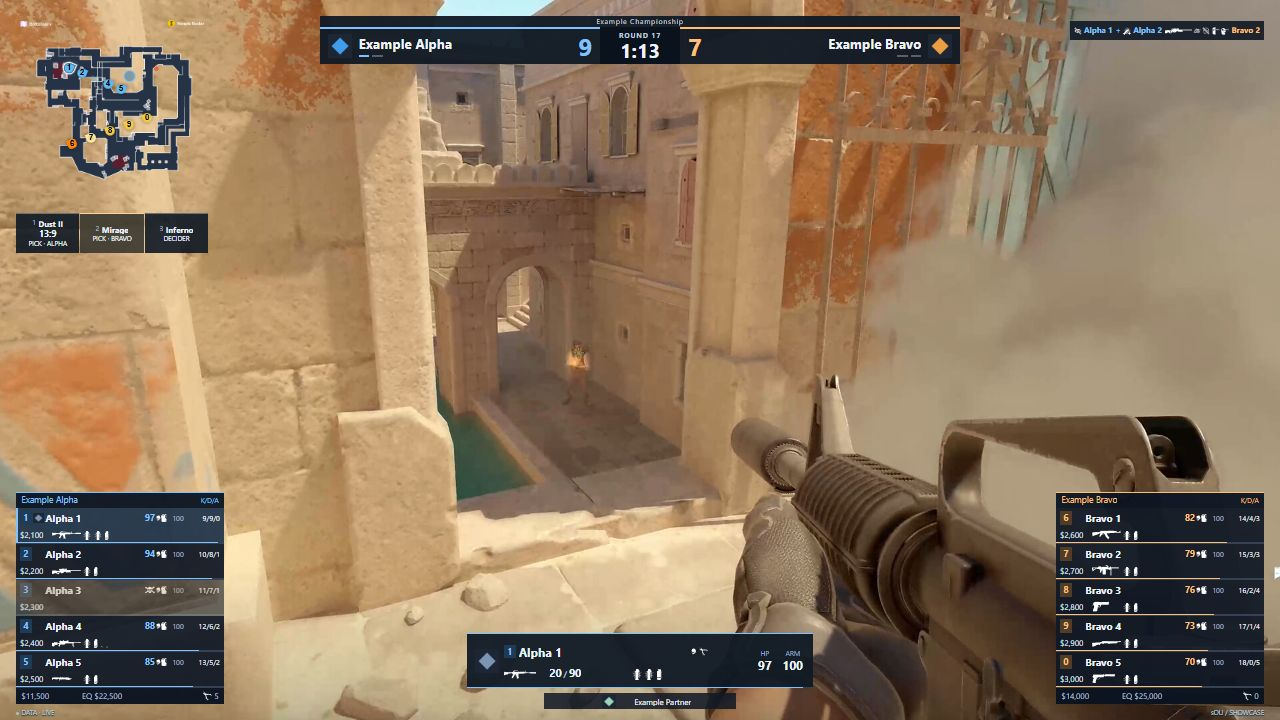
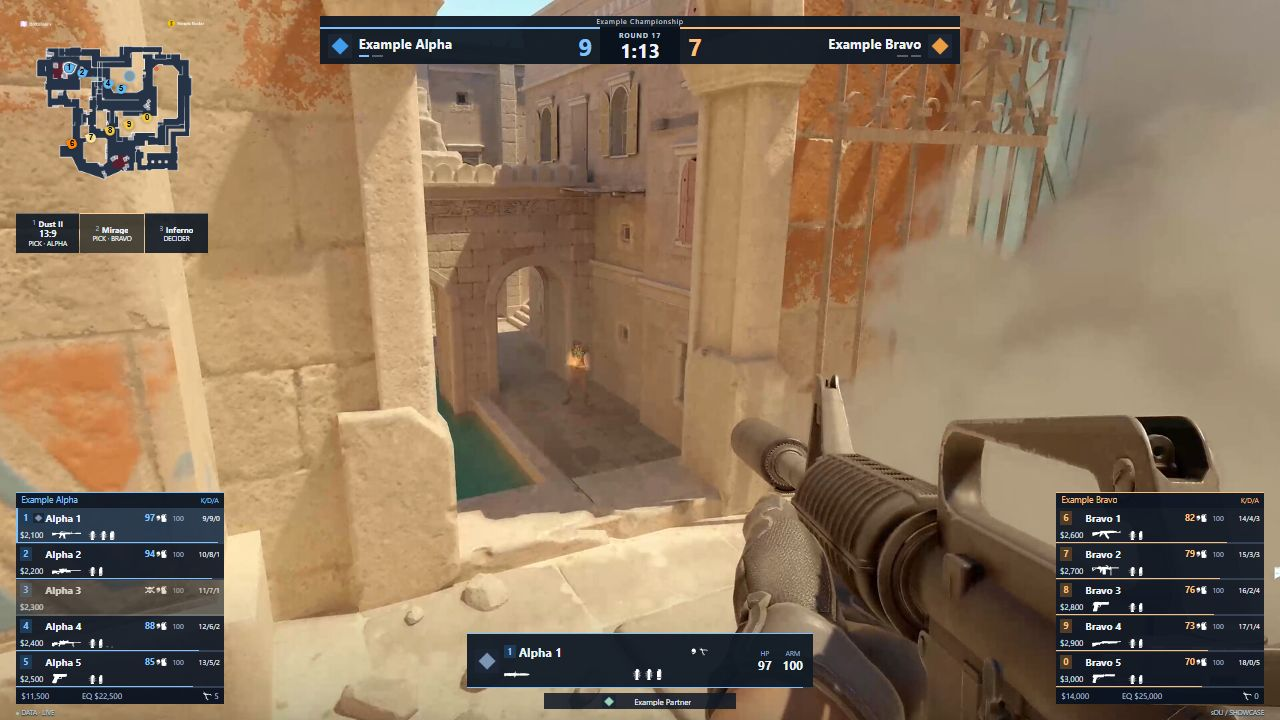
Show carried roster weapons and separate utility in 0.4.8

diff --git a/tests/render.test.js b/tests/render.test.js
@@ -166,11 +166,11 @@ for (const life of [{ health: 0 }, { health: -1 }, { health: 100, isAlive: false
     assert.doesNotMatch(html, /m4a1_silencer|M4A1-S|smokegrenade|weapons\/c4|Unknown weapon|Weapon unavailable|73|99/);
   }
 });
-test('alive unarmed and holstered-only players leave current weapon and ammo absent', () => {
+test('alive unarmed players leave roster empty and holstered weapons do not replace the observer held weapon', () => {
   const base = fixture('live').snapshot.game.players[0];
   for (const weapons of [[], [{ name: 'weapon_awp', type: 'sniperRifle', state: 'holstered' }]]) {
     const player = { ...base, health: 100, isAlive: true, weapons, activeWeapon: staleCurrentWeapon() };
-    for (const component of [PlayerRow, ObservedPlayer]) {
+    for (const component of weapons.length ? [ObservedPlayer] : [PlayerRow, ObservedPlayer]) {
       const html = renderPlayer(component, player);
       assert.doesNotMatch(html, /m4a1_silencer|M4A1-S|weapon-icon|weapons\/awp|Unknown weapon|Weapon unavailable|73|99/);
     }
@@ -181,10 +181,22 @@ test('alive unarmed and holstered-only players leave current weapon and ammo abs
 test('actually present unknown weapon keeps its fallback distinct from an absent weapon', () => {
   const base = fixture('live').snapshot.game.players[0];
   for (const state of ['active', 'reloading']) {
-    const player = { ...base, health: 100, isAlive: true, weapons: [{ slot: 'primary', name: '', kind: 'unknown', state, ammoClip: 73, ammoReserve: 99 }] };
+    const player = { ...base, health: 100, isAlive: true, weapons: [{ slot: 'primary', type: 'rifle', name: '', kind: 'unknown', state, ammoClip: 73, ammoReserve: 99 }] };
     for (const [component, props] of [[PlayerRow, {}], [ObservedPlayer, {}], [ObservedPlayer, { expanded: true }]]) assert.match(renderPlayer(component, player, props), /Unknown weapon/);
     assert.match(renderPlayer(ObservedPlayer, player), /73/);
   }
+});
+
+test('roster shows the carried primary while observer shows the held knife, then falls back after drops', () => {
+  const base = fixture('live').snapshot.game.players[0];
+  const knife = { name: 'weapon_knife', type: 'knife', state: 'active' };
+  const pistol = { name: 'weapon_glock', type: 'pistol', state: 'holstered' };
+  const primary = { name: 'weapon_awp', type: 'sniperRifle', state: 'holstered' };
+  const player = { ...base, health: 100, weapons: [knife, pistol, primary] };
+  assert.match(renderPlayer(PlayerRow, player), /weapons\/awp\.svg/);
+  assert.match(renderPlayer(ObservedPlayer, player), /weapons\/knife\.svg/);
+  assert.match(renderPlayer(PlayerRow, { ...player, weapons: [knife, pistol] }), /weapons\/glock\.svg/);
+  assert.match(renderPlayer(PlayerRow, { ...player, weapons: [knife] }), /weapons\/knife\.svg/);
 });
 test('missing weapon icon renders no unknown box while real named unknown equipment remains labeled', () => {
   assert.equal(renderToStaticMarkup(createElement(Icon, { weapon: null })), '');

diff --git a/tests/model.test.js b/tests/model.test.js
@@ -2,12 +2,24 @@ import test from 'node:test';
 import assert from 'node:assert/strict';
 import {
   EMPTY, activeWeapon, clock, localPreviewMode, money, observerSlot, panelSettings,
-  playerDead, roster, samePlayer, statistic, teamName, time, weaponName,
+  playerDead, roster, rosterWeapon, samePlayer, statistic, teamName, time, weaponName,
 } from '../src/model.js';
 const coreSettings = state => {
   const { caption, showRosters, showObservedPlayer } = panelSettings(state);
   return { caption, showRosters, showObservedPlayer };
 };
+
+test('roster priority uses inventory categories independently of held state and preserves absence', () => {
+  const knife = { type: 'knife', state: 'active' }, pistol = { type: 'pistol', state: 'holstered' }, grenade = { type: 'grenade', state: 'active' };
+  for (const type of ['rifle', 'sniperRifle', 'submachineGun', 'shotgun', 'machineGun']) {
+    const primary = { type, state: 'holstered' };
+    assert.equal(rosterWeapon({ health: null, weapons: [knife, grenade, pistol, primary] }), primary);
+    assert.equal(rosterWeapon({ health: 0, weapons: [primary] }), null);
+  }
+  assert.equal(rosterWeapon({ weapons: [knife, pistol] }), pistol);
+  assert.equal(rosterWeapon({ weapons: [grenade, knife] }), knife);
+  for (const weapons of [null, undefined, [], [grenade], [{ type: 'unknown', state: 'active' }]]) assert.equal(rosterWeapon({ weapons, activeWeapon: pistol }), null);
+});
 
 test('missing and invalid values remain unknown, zero remains meaningful', () => {
   for (const value of [null, undefined, NaN, Infinity, -1, '0']) {

diff --git a/src/ui/components/Players.jsx b/src/ui/components/Players.jsx
@@ -1,4 +1,4 @@
-import { activeWeapon, money, observerSlot, playerDead, roster, samePlayer, statistic, teamName } from '../../model.js';
+import { activeWeapon, money, observerSlot, playerDead, roster, rosterWeapon, samePlayer, statistic, teamName } from '../../model.js';
 import { compactUtility, economy, hasBomb, playerCoverage, playerName, profileFor, utilityCopies, weaponList } from '../../model/showcase.js';
 import { rawWeapon, weaponLabel } from '../../model/assets.js';
 import { LocalImage, Meter, NumberStat } from './Common.jsx';
@@ -22,7 +22,7 @@ export function PlayerBadges({ player, state, showHelmet = true }) {
     {player.burning > 0 && <Icon name="weapons/inferno" label={`Burning ${player.burning}`} base={base} />}</span>;
 }
 export function PlayerRow({ player, state }) {
-  const weapon = activeWeapon(player), dead = playerDead(player);
+  const weapon = rosterWeapon(player), dead = playerDead(player);
   const selected = samePlayer(player, state.snapshot?.game?.observedPlayer);
   const profile = profileFor(state.snapshot, state.metadata, player.steamId, state.settings.feature.player);
   const name = playerName(player, profile);

diff --git a/src/model.js b/src/model.js
@@ -64,6 +64,15 @@ export function clock(game) {
 
 /** Death is explicit; missing health alone does not mean dead. */
 export const playerDead = player => (Number.isFinite(player?.health) && player.health <= 0) || player?.isAlive === false;
+/** Roster inventory priority is independent of the currently held weapon. */
+export function rosterWeapon(player) {
+  if (playerDead(player) || !Array.isArray(player?.weapons)) return null;
+  const weapons = player.weapons;
+  return weapons.find(weapon => ['rifle', 'sniperRifle', 'submachineGun', 'shotgun', 'machineGun'].includes(weapon?.type))
+    ?? weapons.find(weapon => weapon?.type === 'pistol')
+    ?? weapons.find(weapon => weapon?.type === 'knife')
+    ?? null;
+}
 export function activeWeapon(player) {
   if (playerDead(player)) return null;
   if (Array.isArray(player?.weapons)) return player.weapons.find(weapon => weapon?.state === 'active' || weapon?.state === 'reloading') ?? null;

diff --git a/src/styles.css b/src/styles.css
@@ -65,6 +65,7 @@ p, h1, h2, h3, dl, dd, ol, ul { margin: 0; padding: 0; }
 .player-top > *, .player-bottom > *, .observed-identity > *, .observed-weapon > * { min-width: 0; }
 .portrait-cell { display: grid; place-items: center; height: 100%; overflow: hidden; }
 .player-bottom { grid-template-columns: 2.395833cqw 2.291667cqw minmax(0, 1fr); }
+.player-bottom > .loadout-details { margin-inline-start: .416667cqw; }
 .weapon-cell { display: grid; align-items: end; justify-items: start; min-width: 0; height: 100%; overflow: hidden; }
 .utility-cell { min-width: 0; height: .729167cqw; }
 .observer-slot { display: grid; place-items: center; width: .9375cqw; height: 1.041667cqw; color: var(--side); background: var(--side-dark); flex: 0 0 auto; font-size: .729167cqw; font-weight: 700; }

diff --git a/README.md b/README.md
@@ -6,7 +6,7 @@ and seven presentation views. Every display uses public protocol-v2 snapshots, o
 local profile metadata, or an explicit operator setting. It does not invent
 players, match results, events or statistics.
 
-Current HUD version: **0.4.7**. Package ID: `sou-basic-react`.
+Current HUD version: **0.4.8**. Package ID: `sou-basic-react`.
 
 ![Packaged React HUD with calibrated radar, local icons and compact edge displays over a CS2 reference scene](docs/preview.png)
 
@@ -127,7 +127,7 @@ There are no separate HTML builds or router dependencies.
 
 Open a dedicated subview through sOU's output selection. Relative paths above
 are resolved beneath the installed package root, for example
-`/hud-packages/sou-basic-react/0.4.7/views/veto`. Keep the sOU-generated address,
+`/hud-packages/sou-basic-react/0.4.8/views/veto`. Keep the sOU-generated address,
 browser session and base path. Explicit subviews ignore the main scene selector;
 changing **Main output scene** does not turn a dedicated statistics output into
 another view.
@@ -137,7 +137,7 @@ another view.
 | Component | Public source | Limits and missing-data behavior |
 | --- | --- | --- |
 | Match header and identities | `managedMatch` (also available before GSI), explicit CT/T assignments and `game.ct`/`game.t` | Team A/B are stable match identities, not permanent CT/T sides. Only matching IDs and recognized/inferred/manual assignments resolve managed side names. Unknown assignments stay explicit. |
-| Player rosters | `game.players`, typed state, weapons and stats | Live keeps five two-line cards per side: observer digits, name, HP/armor, equipment/condition icons, active weapon, utility, money and K/D/A. Detailed inventory/ammo, equipment value and round statistics remain available in the detail views. Missing HP does not mean alive; zero remains zero. |
+| Player rosters | `game.players`, typed state, weapons and stats | Live keeps five two-line cards per side: observer digits, name, HP/armor, equipment/condition icons, carried primary firearm (otherwise pistol, otherwise knife), utility, money and K/D/A. Detailed inventory/ammo, equipment value and round statistics remain available in the detail views. Missing HP does not mean alive; zero remains zero. |
 | Observed player | `game.observedPlayer` | Actual observed identity, HP/armor, active weapon/ammo and utility; no first-player fallback. Recorded ADR/HS and full equipment belong to expanded Spotlight. Optional portraits require a matching profile/reference; missing images consume no live placeholder space. |
 | Round state/history | `roundNumber`, `roundPhase`, `roundWinner`, `roundWinReason`, `roundWins`, source countdown | History retains the winner's side at that round. A side is not relabeled with today's team assignment. No guessed clutch, MVP or overtime result. |
 | Bomb/defuse | `game.bomb` and source seconds; `game.roundBomb` as a state fallback | Planting/planted/defusing/defused/exploded are explicit. A state fallback does not invent a timer. Seconds are source values; no invented fixed plant or defuse duration and no authoritative progress from an unknown baseline. |
@@ -369,8 +369,8 @@ npm run package
 `SOU.Hud.Tool` **0.2.0-preview.4**, then packs and validates:
 
 ```text
-artifacts/sou-basic-react-0.4.7.souhud
-artifacts/sou-basic-react-0.4.7.souhud.sha256
+artifacts/sou-basic-react-0.4.8.souhud
+artifacts/sou-basic-react-0.4.8.souhud.sha256
 ```
 
 `npm run build` creates `dist/hud.json` and `dist/wwwroot` without packaging.
@@ -583,3 +583,7 @@ Known active weapons use the original icon without a repeated visible name. The 
 Fixed outer areas keep money, weapon, ammo and equipment stable; related information inside each area remains compact. Utility has no empty per-type columns. Two flashbangs render as two original icons with no count label, including full inventory views. Ammunition stays together as clip / reserve.
 
 The killfeed keeps complete names and all currently visible events without a six-row limit. Events expire eight seconds after first receipt; repeated snapshots do not renew them. New events appear at the bottom. Assisters use their own event-side color. Order follows NYXIA: blinded attacker icon, attacker, plus and flash-assist cue beside the assister, weapon, smoke, noscope, wallbang, headshot, victim. Long rows can grow leftwards and wrap at the canvas edge without ellipses.
+
+## Roster inventory priority (0.4.8)
+
+Roster rows show the carried primary firearm (rifle, sniper rifle, SMG, shotgun or machine gun), otherwise pistol, otherwise knife. Holding a knife or grenade does not hide a carried firearm. Dropping a weapon updates this selection. Dead players and absent/empty inventories show no weapon; unknown categories are not guessed. The observer continues to show the active/reloading weapon. A dedicated gutter separates the weapon from the compact utility group; two flashbangs still use two original icons.

diff --git a/scripts/release-notes.md b/scripts/release-notes.md
@@ -1,7 +1,7 @@
-# 0.4.7
+# 0.4.8
 
-Compact utility and ammo inside stable outer data areas. Two flashbangs use two original icons without a numeric counter.
+Player rosters show the carried primary firearm, otherwise pistol, otherwise knife, regardless of the held weapon. Dropped weapons immediately leave the selection. Dead players and missing inventories remain empty; unclassified weapons are not guessed into an inventory category. The observer still shows the active/reloading weapon.
 
-The killfeed keeps complete names and all current events without a six-row cap. Eight-second lifetime does not restart on repeated snapshots. Assisters retain their own event-side color. Blind cue precedes the attacker; flash assist belongs to the assister; smoke, noscope, wallbang and headshot follow the weapon before the victim.
+A separate gutter keeps the weapon silhouette clear of compact utility. Repeated grenade icons, fixed outer data areas and the complete chronological killfeed remain unchanged.
 
-Import 0.4.7 and reopen outputs. Compatible panel values and all eight views are retained. GPLv3 HUD code, separate artwork rights and MIT SDK remain unchanged. Browser checks do not replace native CS2/OBS acceptance.
+Import 0.4.8 and reopen outputs. All eight views and compatible panel settings remain available. SDK and artwork are unchanged. Browser checks do not replace native CS2/OBS acceptance.

diff --git a/CHANGELOG.md b/CHANGELOG.md
@@ -1,5 +1,10 @@
 # Changelog
 
+## 0.4.8
+
+- Show carried primary firearm, otherwise pistol, otherwise knife in roster rows, independently of the observer held weapon.
+- Separate weapon and compact utility with a dedicated gutter; preserve absent/dead inventory handling.
+
 ## 0.4.7
 
 - Keep utility and ammo compact within stable outer data areas; replace counts with repeated grenade icons.
